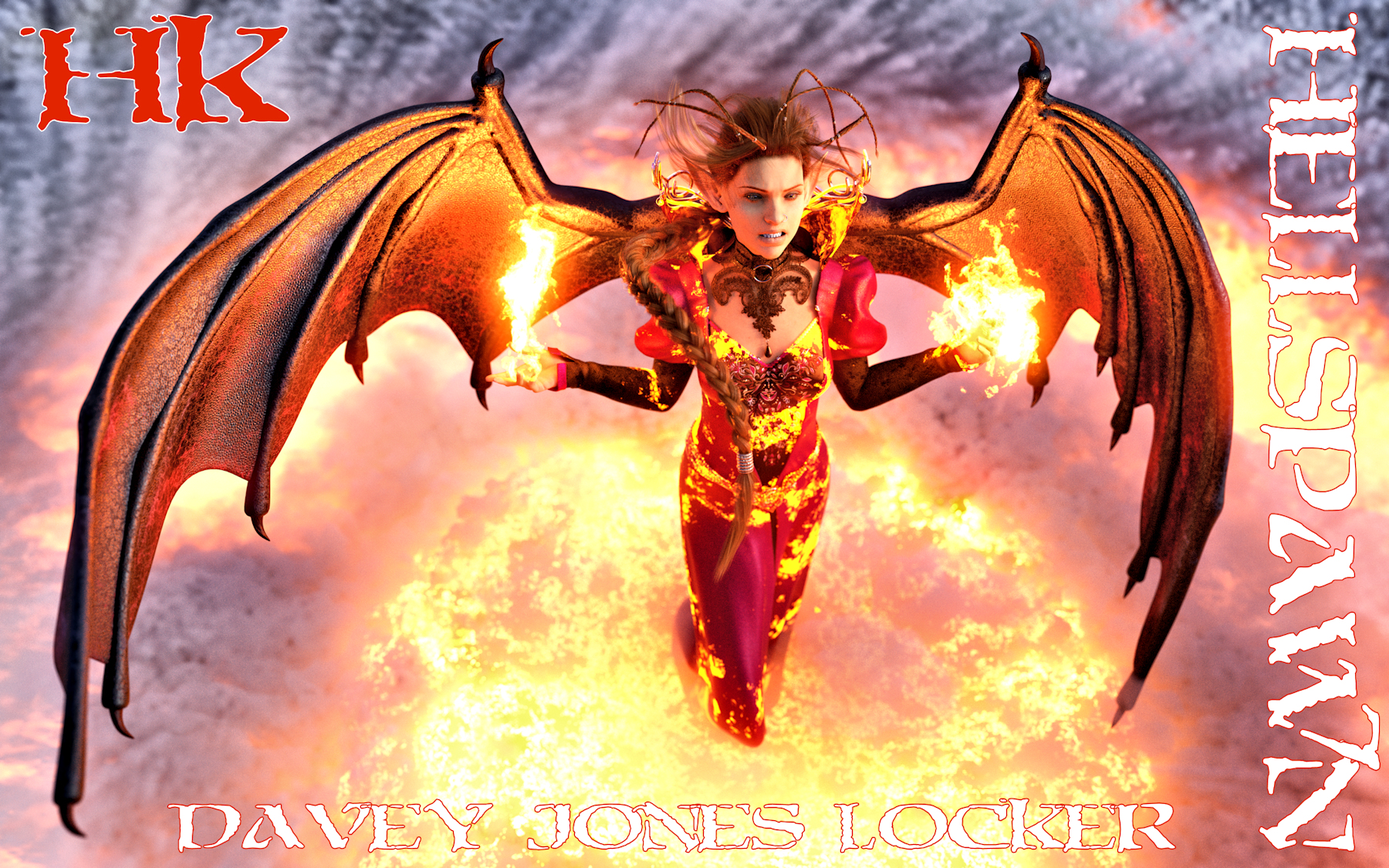
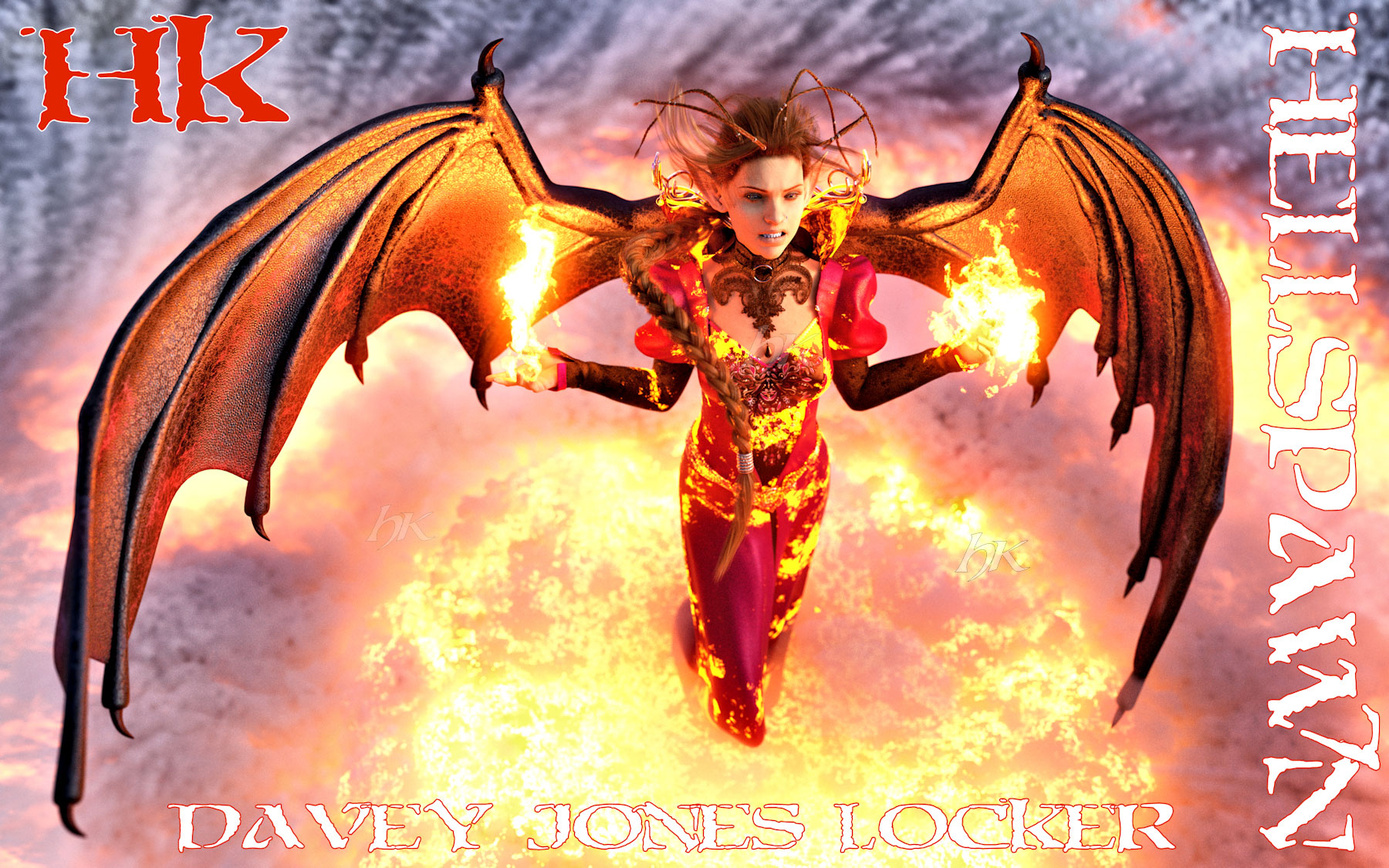
watermarked images added to DJL page

Changed region(s): [[0.5289, 0.3733, 0.5911, 0.4356], [0.6844, 0.6222, 0.7467, 0.6844], [0.2489, 0.5911, 0.3111, 0.6222]]

diff --git a/davey-jones-locker.html b/davey-jones-locker.html
@@ -197,21 +197,21 @@
                             	<div class="one_third vertical-parallax"  data-startparallax="0" data-endparallax="0.4">
                                     <figure>
                                         <a href="images/projects/08tk-hero.jpg" class="image-link"><img src="images/projects/08tk-hero.jpg" alt=""></a>               
-                                        <figcaption style="background-color: #20374f; color:#b8bdc2; font-weight: bolder">Dedicated Community Matriarch</figcaption>
+                                        <figcaption style="background-color: #20374f; color:#b8bdc2; font-weight: bolder"></figcaption>
                                     </figure>
                                 </div>
                                 
                                 <div class="one_third vertical-parallax"  data-startparallax="0.1" data-endparallax="0.2">                                
                                     <figure>
                                         <a href="images/projects/08-hs-wing-djl-pirate.jpg" class="image-link"><img src="images/projects/08-hs-wing-djl-pirate.jpg" alt=""></a>               
-                                        <figcaption style="background-color: #20374f; color:#b8bdc2; font-weight: bolder">Warlock</figcaption>
+                                        <figcaption style="background-color: #20374f; color:#b8bdc2; font-weight: bolder"></figcaption>
                                     </figure>                                    
                                 </div>
                                 
                                 <div class="one_third last vertical-parallax"  data-startparallax="0" data-endparallax="0.7">                                
                                     <figure>
                                         <a href="images/projects/08-hippie-djl-pirate.jpg" class="image-link"><img src="images/projects/08-hippie-djl-pirate.jpg" alt=""></a>               
-                                        <figcaption style="background-color: #20374f; color:#b8bdc2; font-weight: bolder">Runs Amok</figcaption>
+                                        <figcaption style="background-color: #20374f; color:#b8bdc2; font-weight: bolder"></figcaption>
                                     </figure>                                    
                                 </div>         
                                 
@@ -230,12 +230,12 @@
                                             </div>
                                             <div class="column">
                                                 <h4>Hellspawn</h4>
-                                                <p style="color:black; font-style:italic">Vibrant Community Artist</p>
+                                                <p style="color:black; font-style:italic">Spellweaving Pumpkin Thrower</p>
                                                 <p style="color:black">Pumpkin-wielding afficionado, integral part of team success both in battlegrounds and out.</p>
                                             </div>
                                             <div class="column">
                                                 <h4>Hippie</h4>
-                                                <p style="color:black; font-style:italic"> Precocious Community Member</p>
+                                                <p style="color:black; font-style:italic">Runs Amok</p>
                                                 <p style="color:black">Known to run amok, split infinitives, and drives like a monkey on Kleenex.</p>
                                              </div>
                                         </div>
@@ -250,21 +250,21 @@
                                 <div class="one_third vertical-parallax"  data-startparallax="0" data-endparallax="0.7">
                                     <figure>
                                         <a href="images/projects/08-krolak-text-djl-pirate.jpg" class="image-link"><img src="images/projects/08-krolak-text-djl-pirate.jpg" alt="Image Title"></a>               
-                                        <figcaption style="background-color: #20374f; color:#b8bdc2; font-weight: bolder">Hunter</figcaption>
+                                        <figcaption style="background-color: #20374f; color:#b8bdc2; font-weight: bolder"></figcaption>
                                     </figure>
                                 </div>
                                 
                                 <div class="one_third vertical-parallax"  data-startparallax="0.1" data-endparallax="0.2">                                
                                     <figure>
-                                        <a href="images/projects/08-foo-fans-djl.jpg" class="image-link"><img src="images/projects/08-foo-fans-djl.jpg" alt="Image Title"></a>               
-                                        <figcaption style="background-color: #20374f; color:#b8bdc2; font-weight: bolder">Loveable Doofus</figcaption>
+                                        <a href="images/projects/08-foo-hero.jpg" class="image-link"><img src="images/projects/08-foo-hero.jpg" alt="Image Title"></a>               
+                                        <figcaption style="background-color: #20374f; color:#b8bdc2; font-weight: bolder"></figcaption>
                                     </figure>                                    
                                 </div>
                                 
                                 <div class="one_third last vertical-parallax"  data-startparallax="0" data-endparallax="0.25">                                
                                     <figure>
                                         <a href="images/projects/08-lvi-djl-pirate.jpg" class="image-link"><img src="images/projects/08-lvi-djl-pirate.jpg" alt="Image Title"></a>               
-                                        <figcaption style="background-color: #20374f; color:#b8bdc2; font-weight: bolder">Priestess</figcaption>
+                                        <figcaption style="background-color: #20374f; color:#b8bdc2; font-weight: bolder"></figcaption>
                                     </figure>                                    
                                 </div>
                             
@@ -285,14 +285,15 @@
                                 </div>
                                 <div class="column">
                                     <h4>Foomanshoes</h4>
-                                    <p style="color:black; font-style:italic">Well meaning soul</p>
-                                    <p style="color:black">Barely taller from head to toe than he is from stem to stern</p>
+                                    <p style="color:black; font-style:italic">Well Meaning Soul</p>
+                                    <p style="color:black; font-style:italic">Lovable Doofus</p>
+                                    <p style="color:black">Barely taller from head to toe than he is from stem to stern.</p>
                                 
-                                <p style="color:black">Speaks with unashamed volume of a circus barker</p>
+                                <p style="color:black">Speaks with unashamed volume of a circus barker.</p>
                                 </div>
                                 <div class="column">
                                     <h4>LVI</h4>
-                                    <p style="color:black; font-style:italic">Gifted Community Healer</p>
+                                    <p style="color:black; font-style:italic">Gifted Priestess Healer</p>
                                     <p style="color:black">Found in the thick of things, regardless of battleground.</p>
                                 </div>
                             </div>
